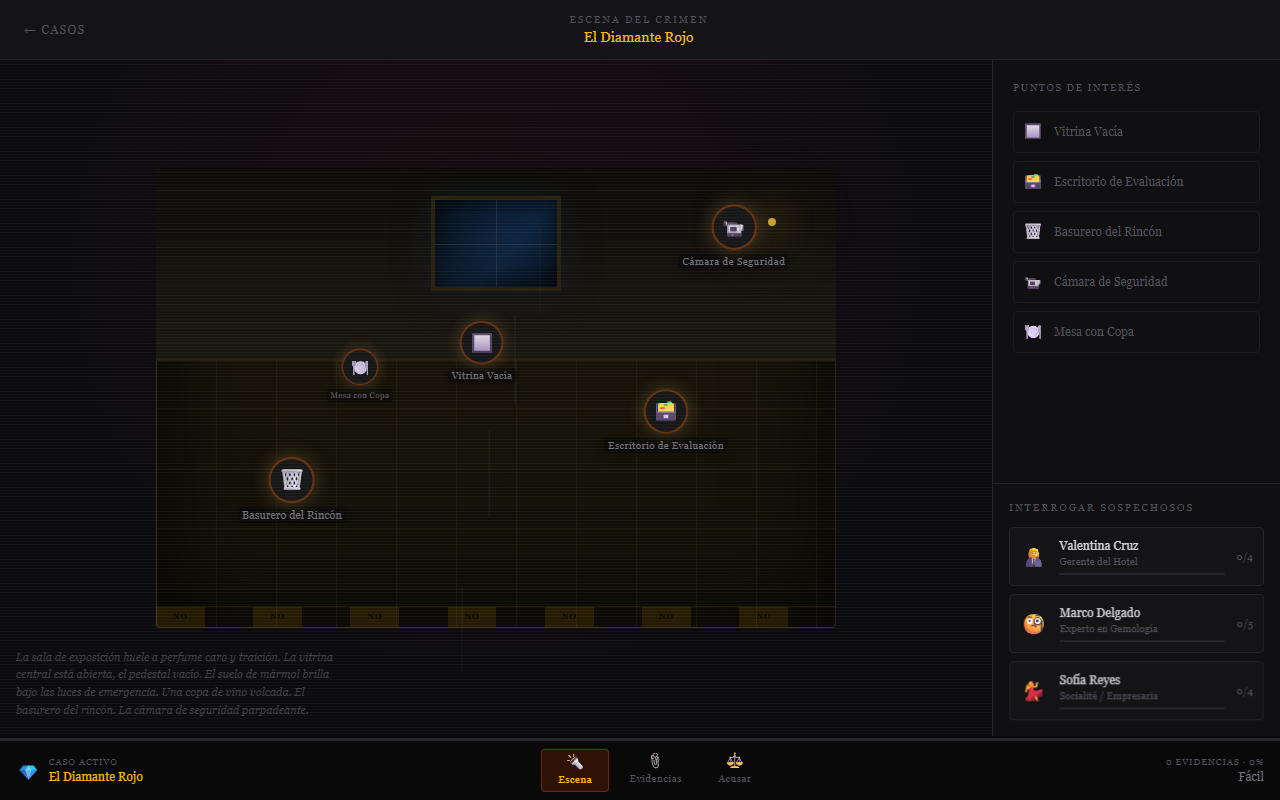
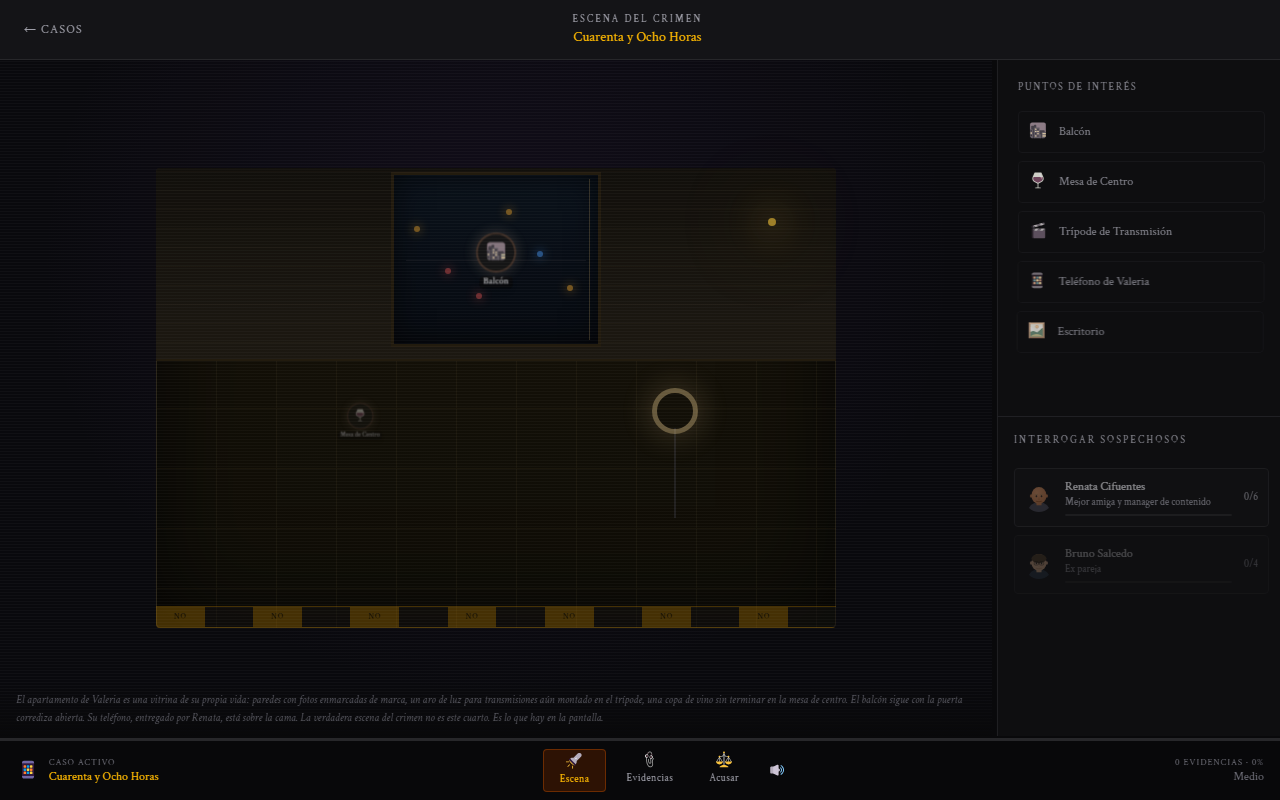
Catch up Detective Game after the ColdTrace-driven rebuild
The entry was still describing the original 3-case build from July —
Howler in the stack (removed, replaced by a synthesized Web Audio
engine), no mention of the digital forensics layer, no live link. Real
gap: the screenshots were pre-rebuild, so the gallery showed a plain
CSS room instead of anything the recent work actually shipped.

Rewrote problem/solution around the actual ColdTrace story (verified
the phone-reading subgenre predates it, built the digital forensics
layer without touching its name/icons/UI), replaced the architecture
bullets with what's really in there now (DigitalForensicsEngine,
RankEngine, the tension-lock mechanic, the connectable evidence board,
procedural portraits, the audio engine), and updated the metrics (3
cases -> 4, 7 test files -> 378 tests).

Took 5 fresh screenshots directly off the live deploy: the phone/chat
UI as the cover shot (the single most different thing about this
version), the connections board with a string drawn, an interrogation
mid-answer, the new per-case crime scene art, and the menu. Added a
live demo link now that it's actually deployed.

diff --git a/src/content/projects.ts b/src/content/projects.ts
@@ -326,37 +326,64 @@ export const projects: Project[] = [
     slug: "detective-game",
     title: "Detective Game",
     tagline: {
-      en: "A narrative detective game with a real case/evidence engine",
-      es: "Un juego narrativo de detective con un motor real de casos/evidencia",
+      en: "A narrative detective game built to out-design a viral mobile hit",
+      es: "Un juego narrativo de detective construido para superar en diseño a un hit móvil viral",
     },
     kind: "software",
     category: "game",
     status: "live",
-    featured: false,
-    stack: ["React 19", "TypeScript", "Vite", "Zustand", "Framer Motion", "Howler", "Vitest"],
+    featured: true,
+    stack: ["React 19", "TypeScript", "Vite", "Zustand", "Framer Motion", "Web Audio API", "Vitest"],
     role: { en: "Solo developer", es: "Desarrollador en solitario" },
     summary: {
-      en: "Investigate crime scenes, gather evidence, interrogate suspects, and make an accusation across three full cases — driven by dedicated Case, Evidence, and Interrogation engines rather than hardcoded per-scene logic.",
-      es: "Investiga escenas del crimen, recolecta evidencia, interroga sospechosos y haz una acusación a lo largo de tres casos completos — impulsado por motores dedicados de Casos, Evidencia e Interrogatorio en vez de lógica fija por escena.",
+      en: "Investigate crime scenes, recover evidence off a suspect's actual phone, interrogate suspects, connect evidence to a suspect on a corkboard, and build a real means/motive/opportunity case across four full cases — each with its own set-dressed crime scene, procedurally-generated suspect portraits, and a fully synthesized audio engine (zero recorded samples).",
+      es: "Investiga escenas del crimen, recupera evidencia del teléfono real de un sospechoso, interroga sospechosos, conecta evidencia a un sospechoso en un corcho, y arma un caso real de medios/móvil/oportunidad a lo largo de cuatro casos completos — cada uno con su propia escena decorada, retratos de sospechosos generados proceduralmente, y un motor de audio 100% sintetizado (cero samples grabados).",
+    },
+    problem: {
+      en: "ColdTrace, a mobile game built entirely around reading a stranger's simulated phone, went viral. I already had a detective game with three layers ColdTrace doesn't (a physical crime scene, an interrogation system, an evidence board) — the gap was that the phone/PIN/messaging mechanic ColdTrace built its whole identity on didn't exist here yet, and closing it had to be done without copying its name, icons, or any real messaging-app UI.",
+      es: "ColdTrace, un juego móvil construido enteramente alrededor de leer el teléfono simulado de un desconocido, se volvió viral. Yo ya tenía un juego de detective con tres capas que ColdTrace no tiene (una escena física, un sistema de interrogatorio, un tablero de evidencia) — el hueco era que la mecánica de teléfono/PIN/mensajería sobre la que ColdTrace construyó toda su identidad no existía todavía aquí, y había que cerrarlo sin copiar su nombre, íconos, ni ninguna UI real de app de mensajería.",
+    },
+    solution: {
+      en: "Verified the actual copyright situation first (the phone-reading subgenre predates ColdTrace by years — A Normal Lost Phone, Simulacra), then built a real digital-forensics layer with its own invented app ecosystem (ChatVía, Anotta, Vozal, NubePlus) inside an actual phone frame with alternating chat bubbles, plus a means/motive/opportunity accusation system with four distinct endings, a narrative tension mechanic that can permanently lock evidence if the player stalls, and a connectable evidence board — none of it bolted onto the old architecture; the same CaseEngine/EvidenceEngine/InterrogationEngine from the original build still drive it, extended, not replaced.",
+      es: "Primero verifiqué la situación real de copyright (el subgénero de \"revisa el celular de alguien\" es anterior a ColdTrace por años — A Normal Lost Phone, Simulacra), y luego construí una capa real de forensia digital con su propio ecosistema de apps inventadas (ChatVía, Anotta, Vozal, NubePlus) dentro de un marco de teléfono real con burbujas de chat alternadas, además de un sistema de acusación por medios/móvil/oportunidad con cuatro finales distintos, una mecánica de tensión narrativa que puede bloquear evidencia para siempre si el jugador se demora, y un tablero de evidencia conectable — nada de esto se le pegó con cinta a la arquitectura vieja; el mismo CaseEngine/EvidenceEngine/InterrogationEngine del build original sigue impulsándolo, extendido, no reemplazado.",
     },
     architectureHighlights: {
       en: [
-        "CaseEngine, EvidenceEngine, and InterrogationEngine decoupled from the 8-scene UI flow (MainMenu → CaseSelection → CaseIntro → CrimeScene → Interrogation → EvidenceBoard → Accusation → Resolution)",
-        "3 full cases implemented as data, independent of the engines that run them",
-        "Zustand for global game state, Framer Motion for scene transitions, Howler for audio",
+        "CaseEngine, EvidenceEngine, InterrogationEngine, DigitalForensicsEngine, and RankEngine decoupled from the 9-scene UI flow (MainMenu → CaseSelection → CaseIntro → CrimeScene → Interrogation → EvidenceBoard → DigitalForensics → Accusation → Resolution)",
+        "4 full cases implemented as data, independent of the engines that run them — one built entirely around digital evidence recovered from a victim's phone",
+        "Means/motive/opportunity accusation system with 4 distinct endings, backed by a data-integrity test that every piece of evidence is actually obtainable and no tension-lock can cut off the only path to something the case requires",
+        "A tension mechanic that can permanently lock a digital thread/note if the player stalls too long — always with a redundant dialogue path, enforced by an automated test, not just careful authoring",
+        "A connectable evidence board (tap evidence, tap a suspect, a real SVG string connects them from live DOM positions) scored against the case's actual solution at Resolution",
+        "16 procedurally-generated SVG suspect portraits — every trait (skin tone, hair, clothing, accessories) derived from a hash of the suspect's id, so the same suspect always renders the same face with nothing copied from anywhere",
+        "A synthesized audio engine (oscillators/filters/noise buffers, zero recorded samples) with per-scene ambient beds and a distinct chord for each of the 4 resolution endings",
+        "Zustand for global game state, Framer Motion for scene transitions, 378 Vitest tests including store-level audio side effects verified with spies",
       ],
       es: [
-        "CaseEngine, EvidenceEngine e InterrogationEngine desacoplados del flujo de UI de 8 escenas (MainMenu → CaseSelection → CaseIntro → CrimeScene → Interrogation → EvidenceBoard → Accusation → Resolution)",
-        "3 casos completos implementados como datos, independientes de los motores que los ejecutan",
-        "Zustand para el estado global del juego, Framer Motion para las transiciones de escena, Howler para el audio",
+        "CaseEngine, EvidenceEngine, InterrogationEngine, DigitalForensicsEngine y RankEngine desacoplados del flujo de UI de 9 escenas (MainMenu → CaseSelection → CaseIntro → CrimeScene → Interrogation → EvidenceBoard → DigitalForensics → Accusation → Resolution)",
+        "4 casos completos implementados como datos, independientes de los motores que los ejecutan — uno construido enteramente alrededor de evidencia digital recuperada del teléfono de una víctima",
+        "Sistema de acusación por medios/móvil/oportunidad con 4 finales distintos, respaldado por un test de integridad de datos que verifica que toda evidencia sea realmente obtenible y que ningún bloqueo de tensión corte la única ruta a algo que el caso exige",
+        "Una mecánica de tensión que puede bloquear para siempre un hilo/nota digital si el jugador se demora demasiado — siempre con una ruta de diálogo redundante, forzada por un test automático, no solo por cuidado al escribir el contenido",
+        "Un tablero de evidencia conectable (toca evidencia, toca un sospechoso, un hilo SVG real los conecta desde posiciones reales del DOM) evaluado contra la solución real del caso en la Resolución",
+        "16 retratos de sospechosos en SVG generados proceduralmente — cada rasgo (tono de piel, pelo, ropa, accesorios) derivado de un hash del id del sospechoso, así el mismo sospechoso siempre da la misma cara sin copiar nada de ningún lado",
+        "Un motor de audio sintetizado (osciladores/filtros/buffers de ruido, cero samples grabados) con ambientes por escena y un acorde distinto para cada uno de los 4 finales de resolución",
+        "Zustand para el estado global del juego, Framer Motion para las transiciones de escena, 378 tests de Vitest incluyendo efectos secundarios de audio verificados con spies a nivel de store",
       ],
     },
     metrics: [
-      { label: { en: "Cases", es: "Casos" }, value: "3" },
-      { label: { en: "Test files", es: "Archivos de test" }, value: "7 (Vitest)" },
+      { label: { en: "Cases", es: "Casos" }, value: "4" },
+      { label: { en: "Tests", es: "Tests" }, value: "378 (Vitest)" },
     ],
-    links: [{ label: SOURCE_LABEL, href: "https://github.com/Kelvis123456/detective-game", icon: "github" }],
-    gallery: ["/images/detective-game/crimescene.png", "/images/detective-game/menu.png"],
+    links: [
+      { label: { en: "Live demo", es: "Demo en vivo" }, href: "https://detective-game-kelvis-g.vercel.app", icon: "external" },
+      { label: SOURCE_LABEL, href: "https://github.com/Kelvis123456/detective-game", icon: "github" },
+    ],
+    gallery: [
+      "/images/detective-game/digital-forensics.png",
+      "/images/detective-game/connections.png",
+      "/images/detective-game/interrogation.png",
+      "/images/detective-game/crimescene.png",
+      "/images/detective-game/menu.png",
+    ],
     accentColor: "#8a6a3a",
   },
   {
